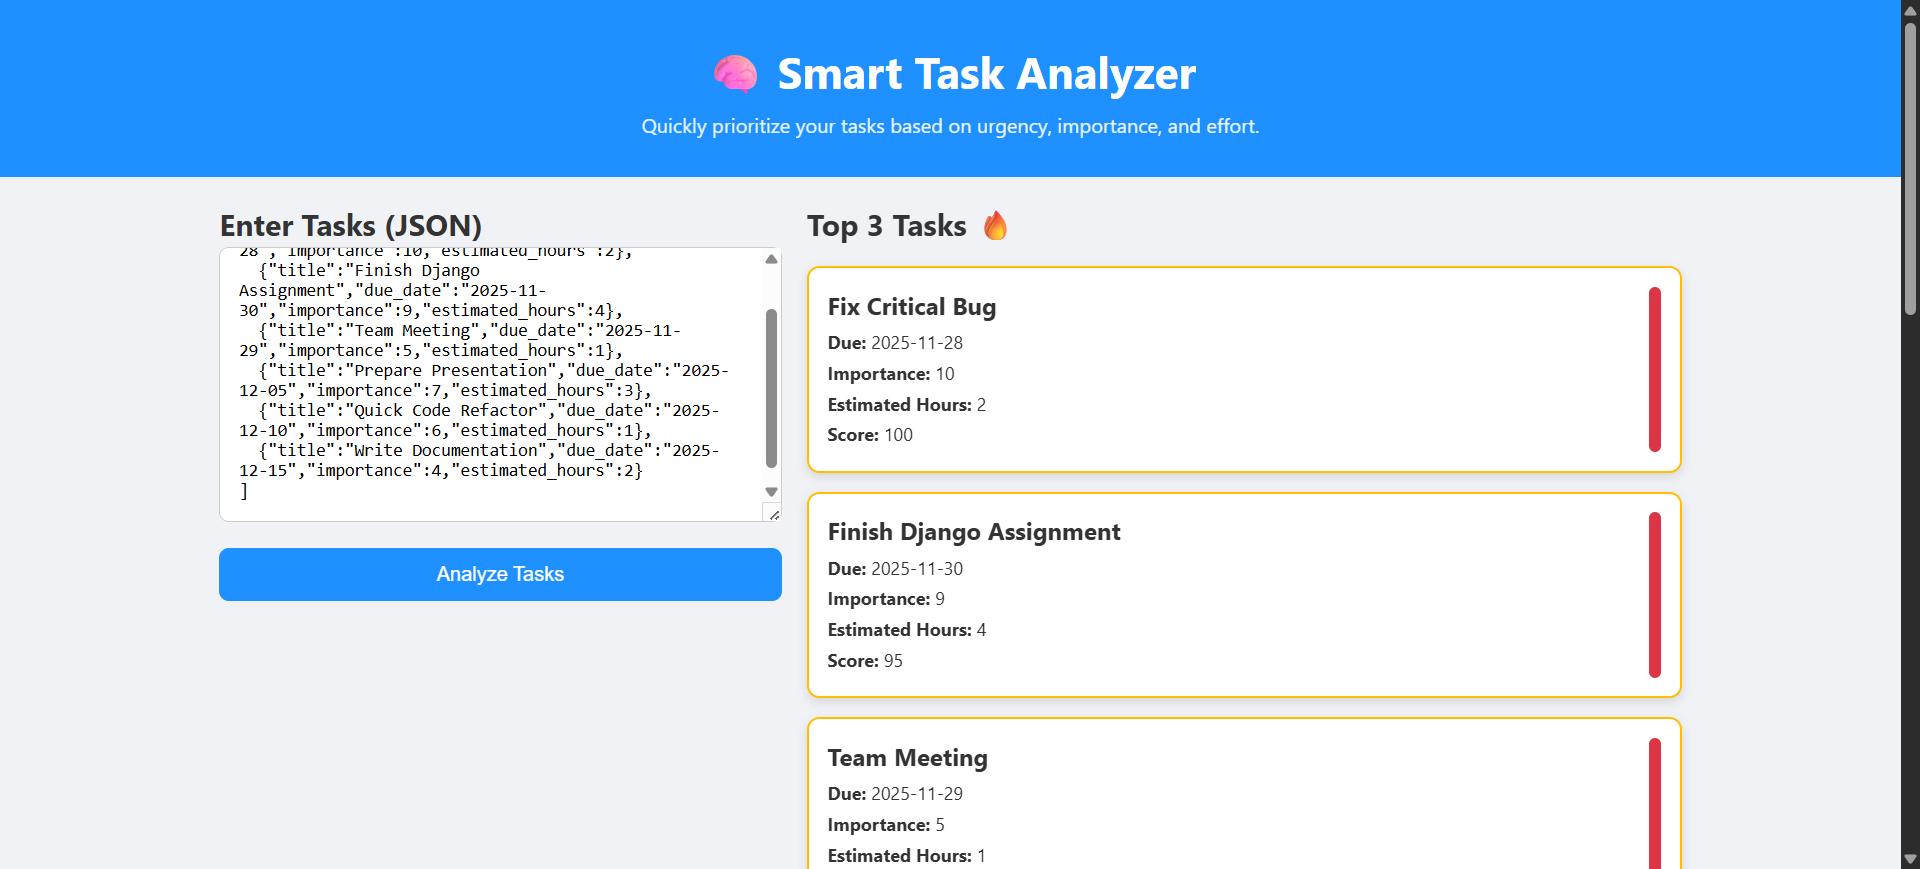
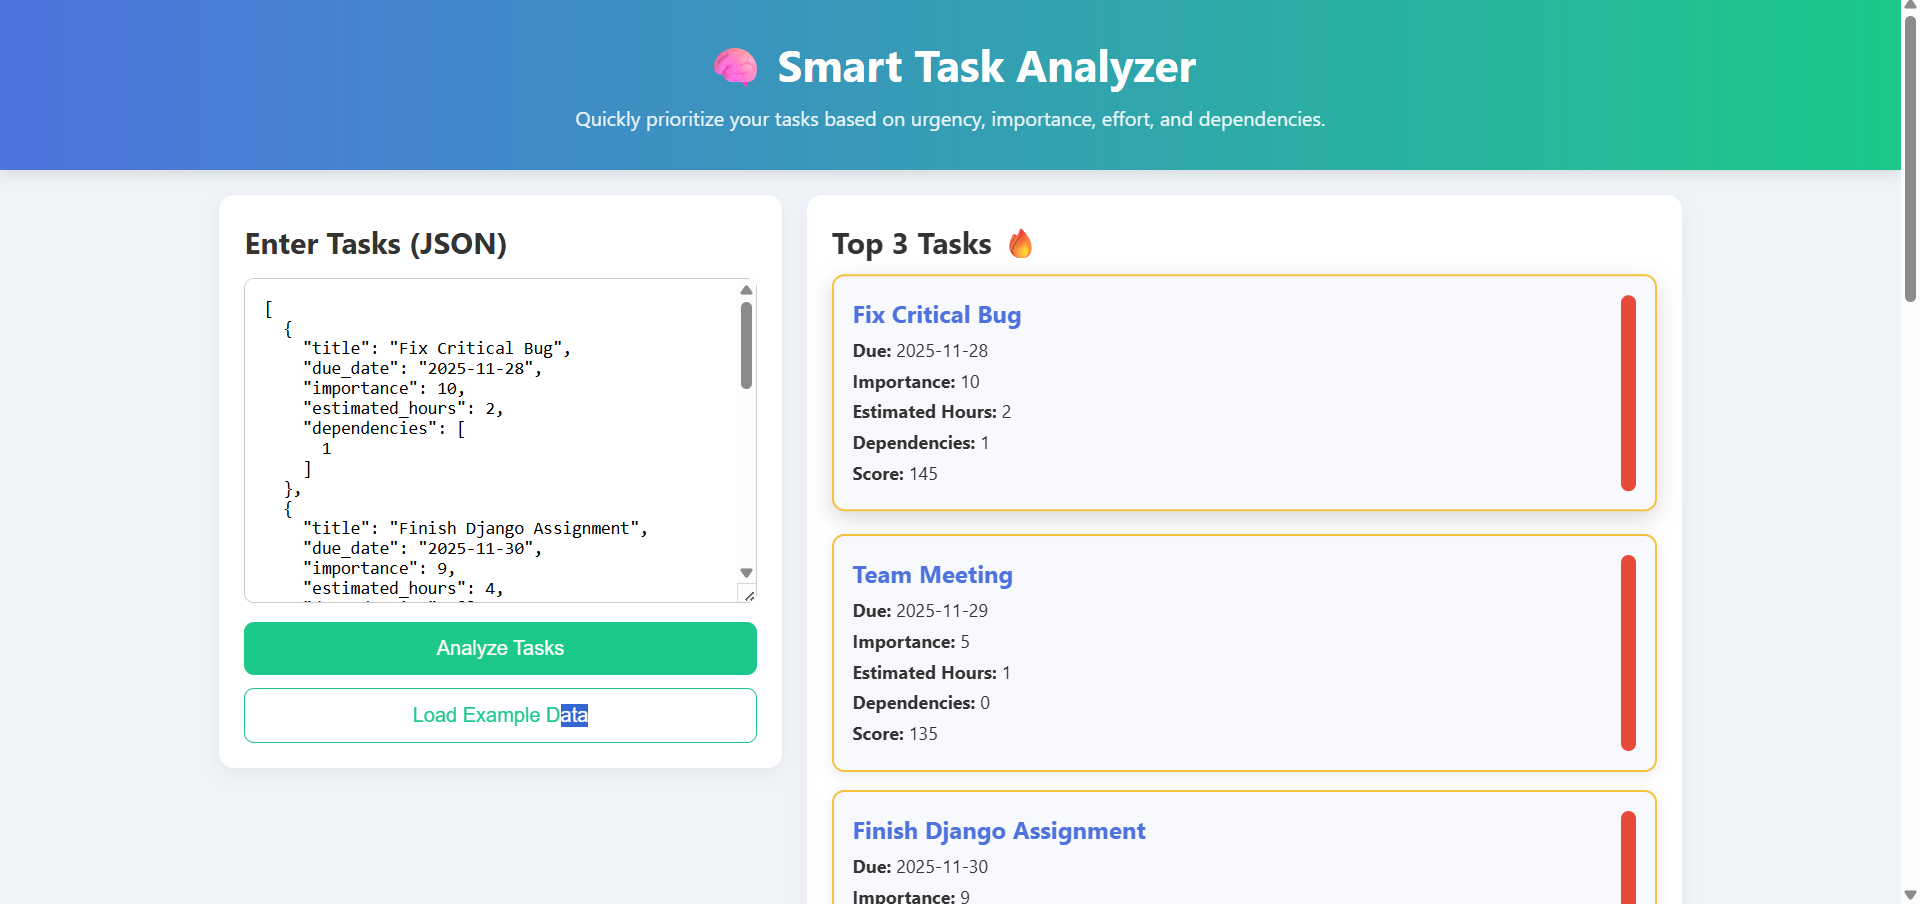
Update screenshots and minor code improvements

diff --git a/tasks/views.py b/tasks/views.py
@@ -84,7 +84,7 @@ def suggest_tasks(request):
     """
     GET /api/tasks/suggest/
     Returns top 3 tasks (from DB) for today or earlier,
-    with scores.
+    with scores. If DB has none, returns default example tasks.
     """
     if request.method != "GET":
         return JsonResponse({"error": "Invalid request method. Use GET."}, status=405)
@@ -93,28 +93,59 @@ def suggest_tasks(request):
     tasks = Task.objects.filter(due_date__lte=today)
 
     scored = []
-    for t in tasks:
-        task_data = {
-            "title": t.title,
-            "due_date": t.due_date,
-            "importance": t.importance,
-            "estimated_hours": t.estimated_hours,
-            "dependencies": t.dependencies or [],
-        }
-        score = calculate_task_score(task_data)
-        scored.append((score, t))
 
+    if tasks.exists():
+        for t in tasks:
+            task_data = {
+                "title": t.title,
+                "due_date": t.due_date,
+                "importance": t.importance,
+                "estimated_hours": t.estimated_hours,
+                "dependencies": t.dependencies or [],
+            }
+            score = calculate_task_score(task_data)
+            scored.append((score, t))
+    else:
+        # Default example tasks if DB is empty
+        default_tasks = [
+            {
+                "title": "Finish Django Assignment",
+                "due_date": today,
+                "importance": 9,
+                "estimated_hours": 4,
+                "dependencies": [],
+            },
+            {
+                "title": "Fix Critical Bug",
+                "due_date": today,
+                "importance": 10,
+                "estimated_hours": 2,
+                "dependencies": [],
+            },
+            {
+                "title": "Prepare Presentation",
+                "due_date": today,
+                "importance": 7,
+                "estimated_hours": 3,
+                "dependencies": [],
+            },
+        ]
+        for t in default_tasks:
+            score = calculate_task_score(t)
+            scored.append((score, t))
+
+    # Sort by score descending and get top 3
     scored.sort(key=lambda x: x[0], reverse=True)
     top3 = scored[:3]
 
     response = []
     for score, t in top3:
         response.append({
-            "title": t.title,
-            "due_date": t.due_date.isoformat(),
-            "importance": t.importance,
-            "estimated_hours": t.estimated_hours,
-            "dependencies": t.dependencies or [],
+            "title": t["title"] if isinstance(t, dict) else t.title,
+            "due_date": (t["due_date"] if isinstance(t, dict) else t.due_date).isoformat() if isinstance(t, dict) else t.due_date.isoformat(),
+            "importance": t["importance"] if isinstance(t, dict) else t.importance,
+            "estimated_hours": t["estimated_hours"] if isinstance(t, dict) else t.estimated_hours,
+            "dependencies": t["dependencies"] if isinstance(t, dict) else (t.dependencies or []),
             "score": score,
             "reason": "High priority based on urgency, importance and effort.",
         })
